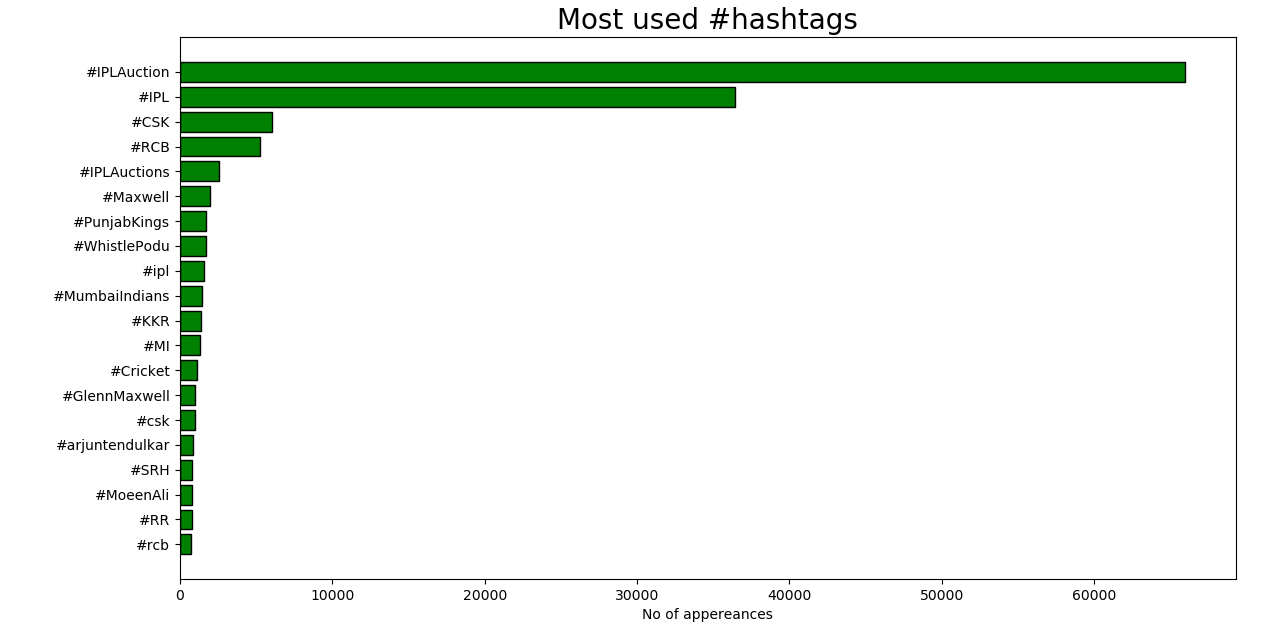
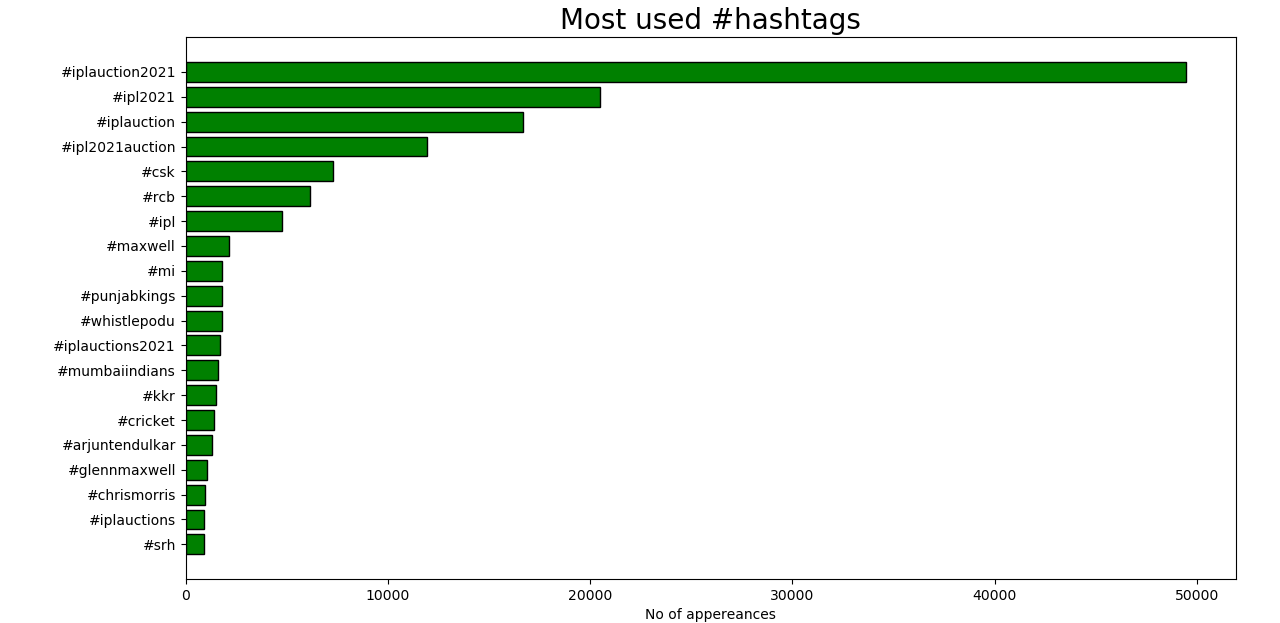
some changes

diff --git a/Needs API/hashtag.py b/Needs API/hashtag.py
@@ -4,29 +4,29 @@ import json
 import sys
 import csv
 
-csvfile = open('YOUR DATA BASE NAME.csv','a')
+csvfile = open('IPL.csv','a')
 csvwriter = csv.writer(csvfile)
  
 # == OAuth Authentication ==
 # The consumer keys can be found on your application's Details
 # page located at https://dev.twitter.com/apps (under "Keys and tokens")
  # PUT YOUR KEYS AND SECRETS IN HERE, IT WONT WORK WITHOUT YOUR KEYS FROM TWITTER !!!!!
-consumer_key="YOUR KEY"
-consumer_secret="YOUR CONSUMER SECRET"
+consumer_key="8qHBAaHqXmZxSWf4xT1iUZpY1"
+consumer_secret="kQOVSvIlYl4A2IbypZpFOopIyafURdBg5PDYO3A0HHguYD6hlJ"
  
 # After the step above, you will be redirected to your app's page.
 # Create an access token under the the "Your access token" section
-access_token="67271475-y4QNnALrD918v1Z4kKKOoTc6bvABtDz6LqdBlp0Pp"
-access_token_secret="tSz8Ly6gwsi2maaxTU3CTrr8XlhzTYWpox7z6Pxh52zOC"
+access_token="1163418747501043712-WobA4YkAzXVcKfRc6h6QQ0ONKsWH5U"
+access_token_secret="2eks7joqEAvKlTVuKd3CIwQhkultJaGaQEeTK0w2wDtut"
  
 auth = twitter.oauth.OAuth(access_token, access_token_secret,consumer_key, consumer_secret)
 twitter_api = twitter.Twitter(auth=auth)
 # Query terms
-q = 'YOUR HASHTAG' # Comma-separated list of terms, start with something busy to test your script, then once you know its working put your hashtags in, max 400 tags
-print >> sys.stderr, 'Filtering the public timeline for track="%s"' % (q,)
+q = '#Lampard' # Comma-separated list of terms, start with something busy to test your script, then once you know its working put your hashtags in, max 400 tags
+print('Filtering the public timeline for track=',q)
 # Reference the self.auth parameter
 twitter_stream = twitter.TwitterStream(auth=twitter_api.auth)
-# See https://dev.twitter.com/docs/streaming-apis
+# See 
 stream = twitter_stream.statuses.filter(track=q)
 # For illustrative purposes, when all else fails, search for a relevant topic such as Madonna
 # and something is sure to turn up (at least, on Twitter)
@@ -37,7 +37,7 @@ for tweet in stream:
 	# its a structured object in JSON format. We can treat this as a python dictionary - http://learnpythonthehardway.org/book/ex39.html
 	# sometimes it helps to dump an entire tweet using the line below so you can see the names of the fields
 	# print json.dumps(tweet, indent=1')
-	print tweet['text']
+	print(tweet['text'])
 	
 	csvwriter.writerow([tweet['text'].encode('utf-8'),tweet['user']['screen_name'].encode('utf-8'),tweet['created_at']])
 	

diff --git a/Tweets/analyseTwint.py b/Tweets/analyseTwint.py
@@ -36,17 +36,17 @@ print("The total number of Tweets is:",len(tweets_data))
 
 #To see the most used hashtags.
 hashtags = []
-hashtag_pattern = re.compile(r"#[a-zA-Z]+")
+hashtag_pattern = re.compile(r"#[a-zA-Z0-9]+")
 hashtag_matches=[]
 for text in tweets_text:
     hashtag_matches.append(hashtag_pattern.findall(text))
 hashtag_dict = {}
 for match in hashtag_matches:
     for singlematch in match:
-        if singlematch not in hashtag_dict.keys():
-            hashtag_dict[singlematch] = 1
+        if singlematch.lower() not in hashtag_dict.keys():
+            hashtag_dict[singlematch.lower()] = 1
         else:
-            hashtag_dict[singlematch] = hashtag_dict[singlematch]+1
+            hashtag_dict[singlematch.lower()] = hashtag_dict[singlematch.lower()]+1
 
 
 
@@ -74,7 +74,7 @@ plt.show()
 #Make a wordcloud plot of the most used hashtags, for this we need a #dictionary 
 #where the keys are the words and the values are the number of #appearances
 hashtag_ordered_dict = {}
-for item in hashtag_ordered_list[0:20]:
+for item in hashtag_ordered_list:
     hashtag_ordered_dict[item[0]] = item[1]
 wordcloud = WordCloud(width=1000, height=1000, random_state=21, max_font_size=200, background_color = 'white').generate_from_frequencies(hashtag_ordered_dict)
 plt.figure(figsize=(15, 10))
